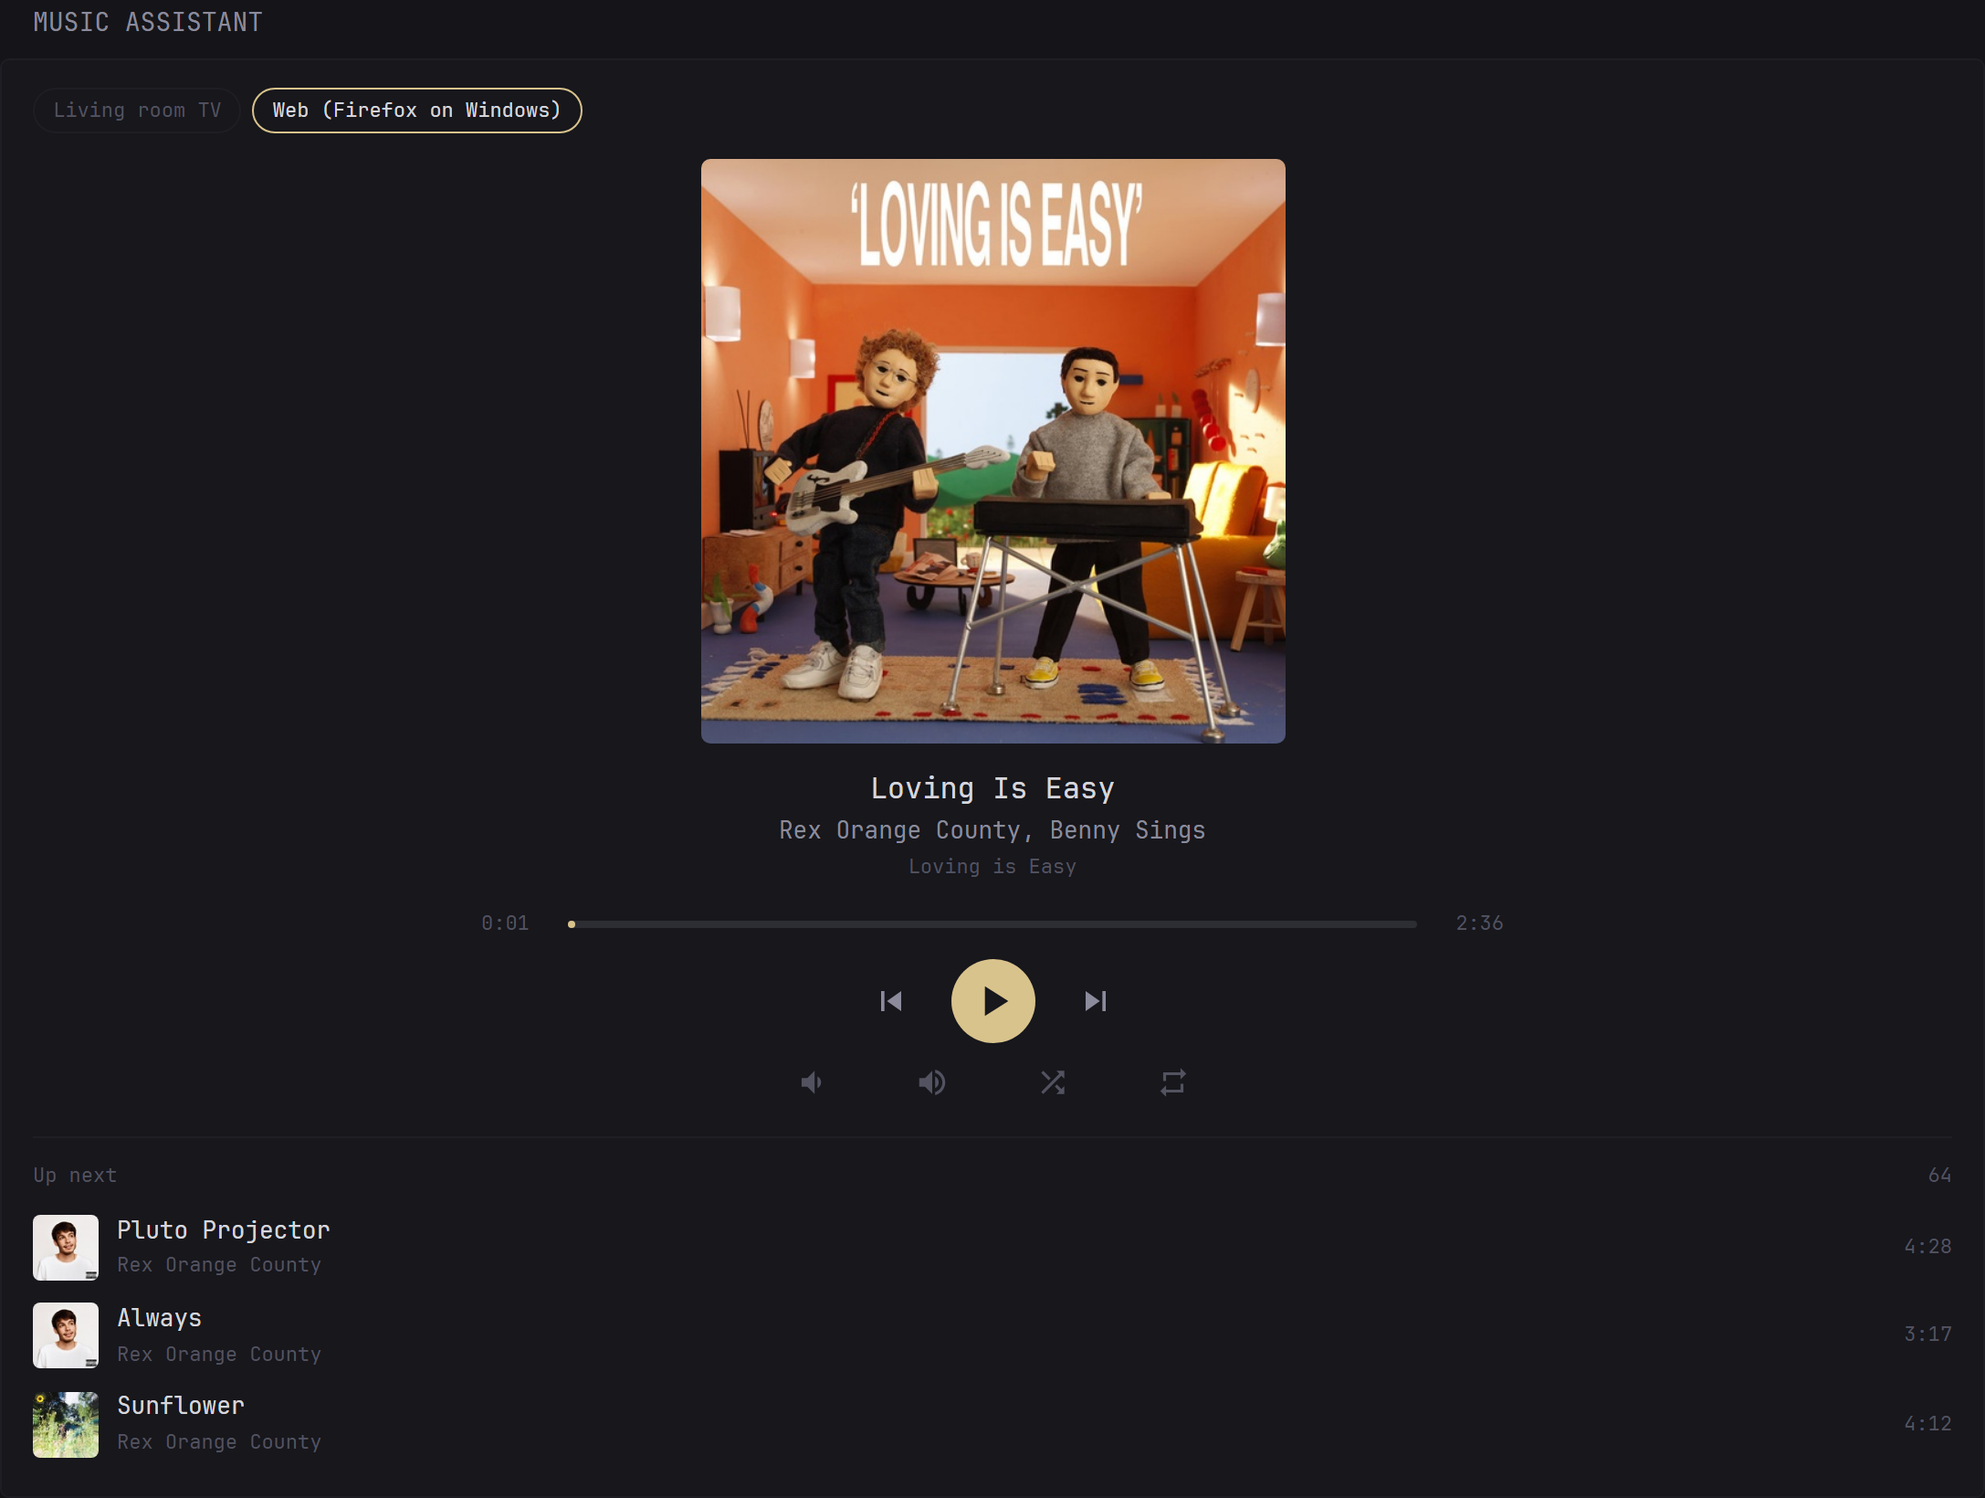
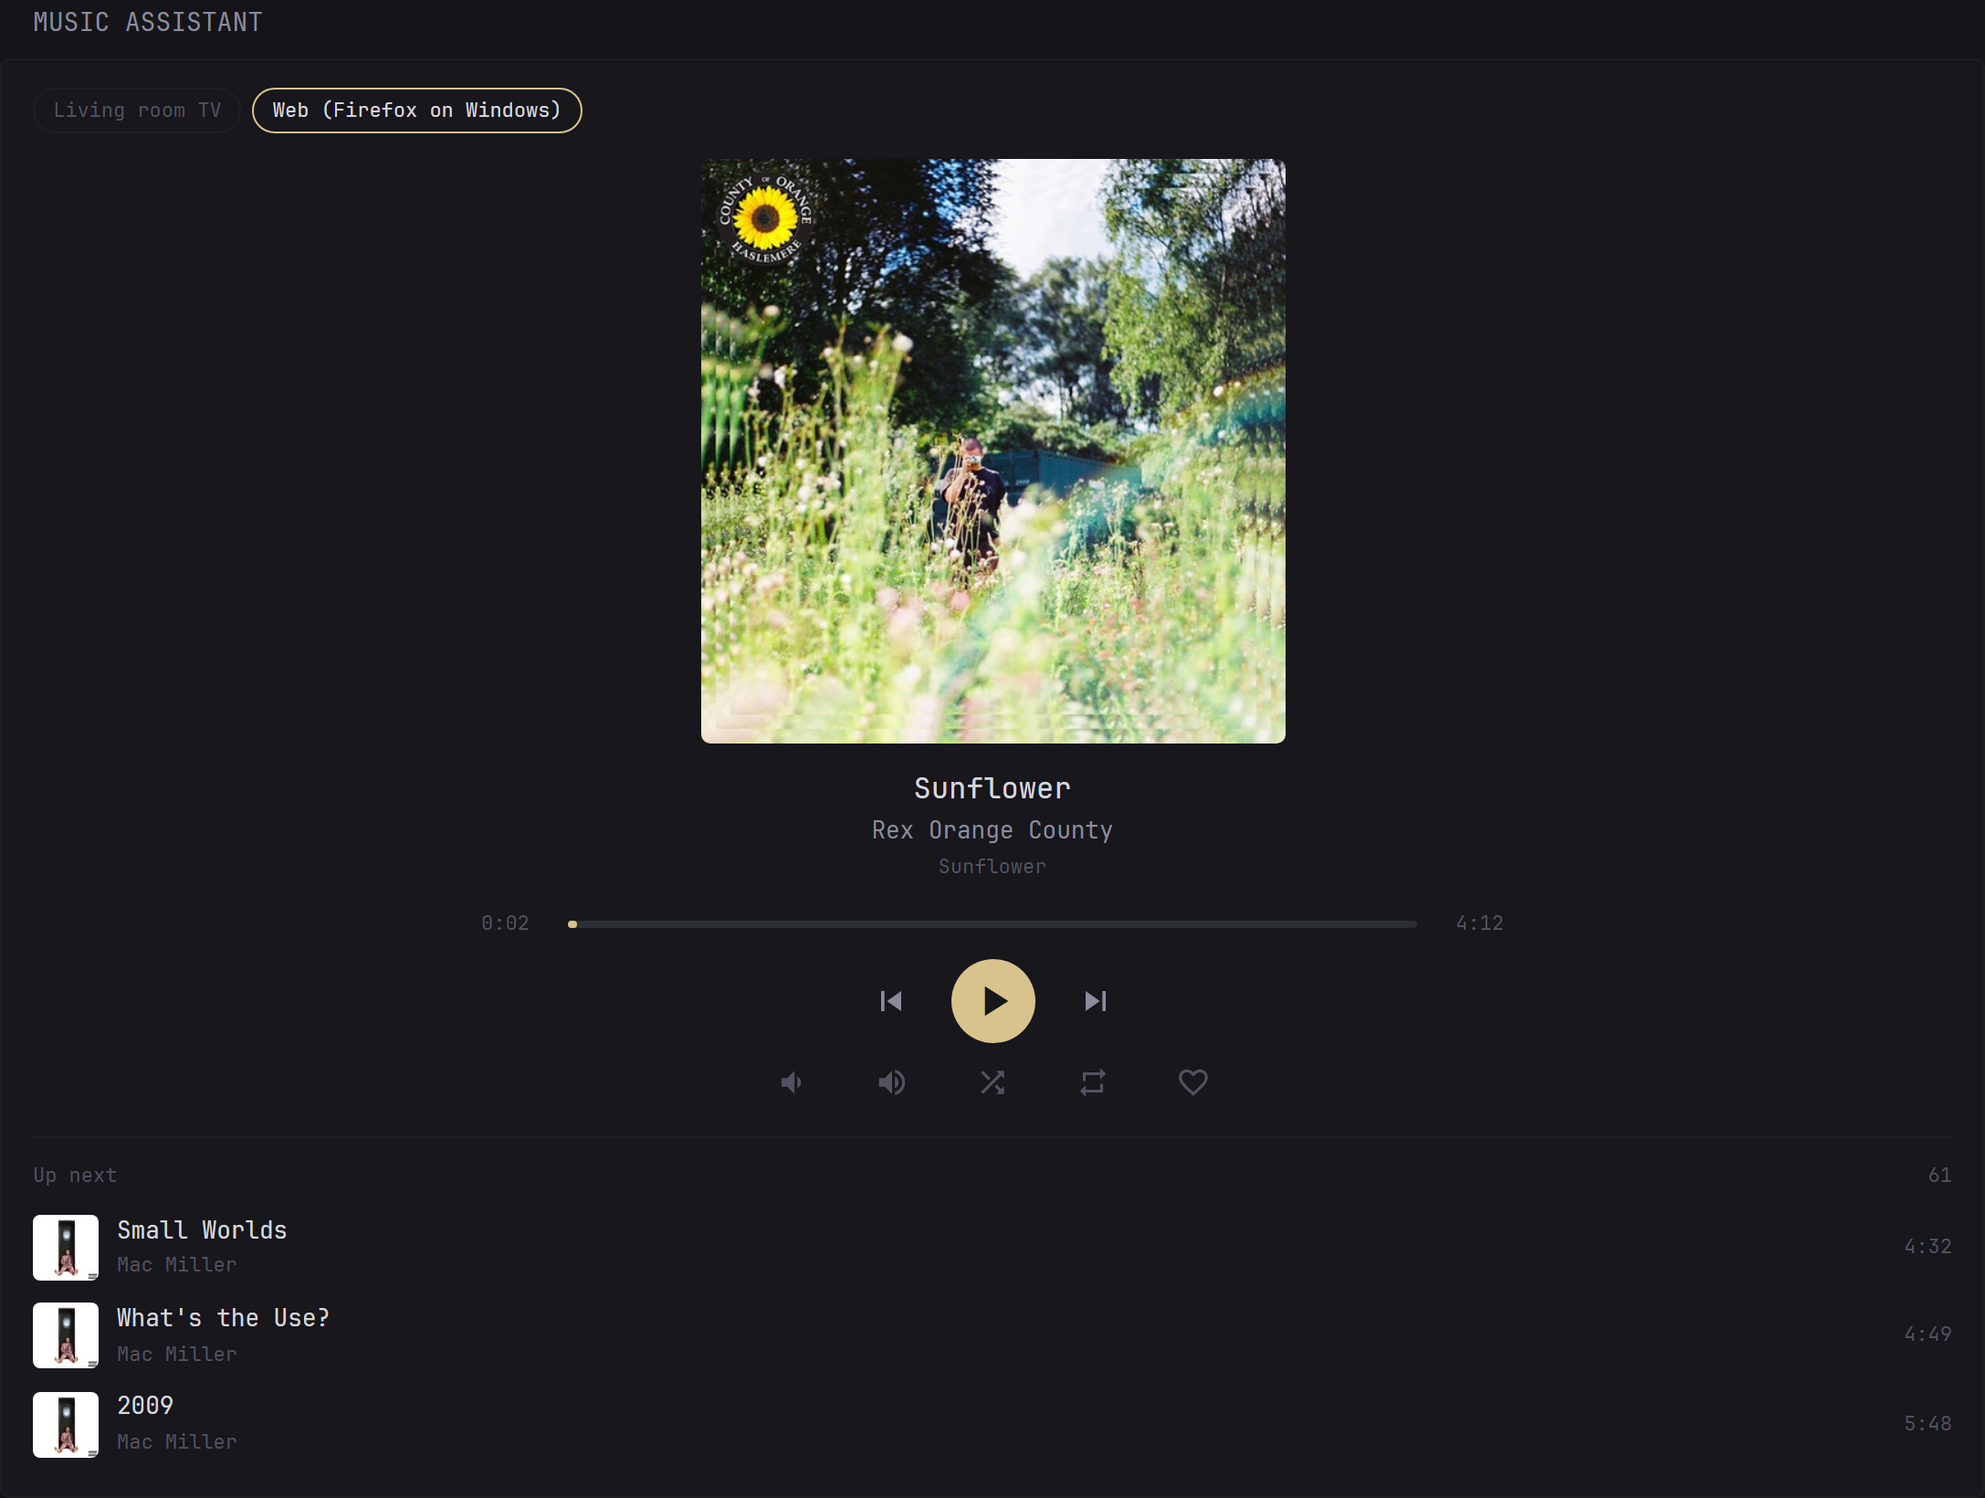
Favourite button for the current track
A heart next to repeat adds the current track (or radio station) to the
favourites or removes it. Queue items keep the favourite flag from when
they were queued, so the widget asks music/item_by_uri, which returns the
library item with the current flag, and uses music/favorites/add_item and
remove_item. New option show-favorite (default true); the read-only
variant makes no extra requests.

Commands now get queue_id or player_id only when they need one.
Previews retaken with the heart.

diff --git a/dev/mock_ma.py b/dev/mock_ma.py
@@ -155,6 +155,7 @@ BROKEN_COVERS = {_image("Low Tide Radio")["proxy_id"]}
 class MockMA:
     def __init__(self) -> None:
         self.state = initial_state()
+        self.favorites: set[str] = set()
         self.log: list[dict] = []
         self.sockets: set[web.WebSocketResponse] = set()
 
@@ -214,6 +215,20 @@ class MockMA:
         if command == "players/all":  # MA applies the player filter here, not to player_queues/all
             return [{"player_id": k, "name": d["queue"]["display_name"], "volume_level": d["volume"]}
                     for k, d in self.state.items() if k in PLAYER_FILTER]
+
+        if command == "music/item_by_uri":  # MA returns the library item, with its current favourite flag
+            uri = args["uri"]
+            for i, (title, _, _, _) in enumerate(CATALOGUE):
+                if uri == f"library://track/{i + 1}":
+                    return {"item_id": str(i + 1), "provider": "library", "media_type": "track", "uri": uri,
+                            "name": title, "favorite": uri in self.favorites}
+            raise ValueError(f"Unknown item {uri}")
+        if command == "music/favorites/add_item":
+            self.favorites.add(args["item"])
+            return None
+        if command == "music/favorites/remove_item":
+            self.favorites.discard(f"library://{args['media_type']}/{args['library_item_id']}")
+            return None
 
         target = args.get("queue_id", args.get("player_id"))
         if target in self.state and target not in PLAYER_FILTER:
@@ -376,6 +391,7 @@ async def handle_log(_: web.Request) -> web.Response:
 
 async def handle_reset(_: web.Request) -> web.Response:
     mock.state = initial_state()
+    mock.favorites.clear()
     mock.log.clear()
     return web.json_response({"ok": True})
 

diff --git a/dev/test_e2e.py b/dev/test_e2e.py
@@ -145,6 +145,17 @@ def run_browser_tests(screenshots: bool) -> None:
                 "aria-label", "Repeat: all", timeout=6000)
         check("repeat cycles off -> all", repeat)
 
+        def favourite() -> None:
+            heart = page.locator(f'{panel} [aria-label="Favourite"]')
+            expect(heart).to_have_attribute("aria-pressed", "false")
+            heart.click()
+            expect(heart).to_have_attribute("aria-pressed", "true", timeout=6000)
+            assert last_command("music/favorites/add_item")["args"] == {"item": "library://track/5"}  # Slow Orbit
+            heart.click()
+            expect(heart).to_have_attribute("aria-pressed", "false", timeout=6000)
+            assert last_command("music/favorites/remove_item")["args"] == {"media_type": "track", "library_item_id": "5"}
+        check("favourite button adds and removes the current track", favourite)
+
         def volume() -> None:
             page.locator(f'{panel} [data-ma-cmd="players/cmd/volume_up"]').click()
             page.wait_for_timeout(600)

diff --git a/widget/README.md b/widget/README.md
@@ -2,7 +2,7 @@
 
 ![Music Assistant widget with big-cover in a full column](preview-big-cover.png)
 
-Shows what your [Music Assistant](https://www.music-assistant.io) players are playing and lets you control them from Glance: play/pause, previous/next, seek, volume, shuffle, repeat and play any upcoming track. Players with something in their queue get a tab; the one that is playing opens first.
+Shows what your [Music Assistant](https://www.music-assistant.io) players are playing and lets you control them from Glance: play/pause, previous/next, seek, volume, shuffle, repeat, favourite and play any upcoming track. Players with something in their queue get a tab; the one that is playing opens first.
 
 Works with Music Assistant alone, no Home Assistant needed.
 
@@ -38,6 +38,7 @@ Works with Music Assistant alone, no Home Assistant needed.
 | `player-id` | `""` | Player to open when nothing is playing |
 | `public-url` | `${MA_URL}` | Music Assistant address as the browser sees it |
 | `show-controls` | `true` | `false` makes the widget read-only and leaves the token out of the page |
+| `show-favorite` | `true` | Heart button that adds the current track to the favourites or removes it; `false` hides it |
 | `queue-length` | `4` | Upcoming tracks to list; `0` hides the list |
 | `max-players` | `4` | Number of player tabs, 1 to 6 |
 | `big-cover` | `false` | Large cover on top, like the Music Assistant player screen; best in a full column |
@@ -58,7 +59,7 @@ Player ids are shown at the top of each player's settings page in Music Assistan
 
 ## How it works
 
-Glance reads `player_queues/all`, `players/all` (the players the user may use) and the upcoming tracks from the Music Assistant HTTP API on the server side. The buttons send commands over the Music Assistant WebSocket API, because the HTTP API does not allow requests from other sites in the browser (no CORS) while WebSockets are not limited that way. After a command, only this widget is re-rendered, without reloading the page.
+Glance reads `player_queues/all`, `players/all` (the players the user may use), the upcoming tracks and the favourite state of each current track from the Music Assistant HTTP API on the server side. The buttons send commands over the Music Assistant WebSocket API, because the HTTP API does not allow requests from other sites in the browser (no CORS) while WebSockets are not limited that way. After a command, only this widget is re-rendered, without reloading the page.
 
 Icons are from Google's Material Icons (Apache License 2.0).
 
@@ -83,6 +84,7 @@ Icons are from Google's Material Icons (Apache License 2.0).
     player-id: ""           # player to open when nothing is playing
     public-url: ${MA_URL}   # Music Assistant address as the browser sees it (controls and cover art)
     show-controls: true     # false makes the widget read-only and keeps the token out of the page
+    show-favorite: true     # heart button that adds or removes the current track from the favourites
     queue-length: 4         # upcoming tracks to list, 0 hides the list
     max-players: 4          # number of player tabs, 1 to 6
     big-cover: false        # large cover on top, like the Music Assistant player screen
@@ -92,6 +94,7 @@ Icons are from Google's Material Icons (Apache License 2.0).
     {{- $id := .Options.StringOr "id" "ma" -}}
     {{- $server := trimSuffix "/" (.Options.StringOr "public-url" "${MA_URL}") -}}
     {{- $controls := .Options.BoolOr "show-controls" true -}}
+    {{- $favorites := .Options.BoolOr "show-favorite" true -}}
     {{- $big := .Options.BoolOr "big-cover" false -}}
     {{- $queueLength := .Options.IntOr "queue-length" 4 -}}
     {{- $maxPlayers := .Options.IntOr "max-players" 4 -}}
@@ -272,7 +275,8 @@ Icons are from Google's Material Icons (Apache License 2.0).
             if (!root || !panel || root.hasAttribute('data-ma-busy')) return;
             var command = el.getAttribute('data-ma-cmd'), args = {};
             try { args = JSON.parse(el.getAttribute('data-ma-args') || '{}'); } catch (e) {}
-            args[command.indexOf('players/') === 0 ? 'player_id' : 'queue_id'] = panel.getAttribute('data-ma-queue');
+            if (command.indexOf('player_queues/') === 0) args.queue_id = panel.getAttribute('data-ma-queue');
+            else if (command.indexOf('players/') === 0) args.player_id = panel.getAttribute('data-ma-queue');
             if (el.hasAttribute('data-ma-seek')) {
               var box = el.getBoundingClientRect();
               if (!box.width) return;
@@ -397,6 +401,26 @@ Icons are from Google's Material Icons (Apache License 2.0).
         {{- $repeat := .String "repeat_mode" }}
         {{- $nextRepeat := "all" }}
         {{- if eq $repeat "all" }}{{ $nextRepeat = "one" }}{{ else if eq $repeat "one" }}{{ $nextRepeat = "off" }}{{ end }}
+        {{- /* Favourite state: queue items keep the flag they had when queued, the library has the current one */ -}}
+        {{- $favorite := "" }}
+        {{- $favoriteArgs := "" }}
+        {{- $uri := .String "current_item.media_item.uri" }}
+        {{- if and $controls $favorites $uri }}
+          {{- $item := newRequest "${MA_URL}/api"
+                | withHeader "Authorization" "Bearer ${MA_TOKEN}"
+                | withHeader "Content-Type" "application/json"
+                | withStringBody (printf `{"message_id":"glance","command":"music/item_by_uri","args":{"uri":%q}}` $uri)
+                | getResponse }}
+          {{- if eq $item.Response.StatusCode 200 }}
+            {{- if and ($item.JSON.Bool "favorite") (eq ($item.JSON.String "provider") "library") }}
+              {{- $favorite = "on" }}
+              {{- $favoriteArgs = printf `{"media_type": %q, "library_item_id": %q}` ($item.JSON.String "media_type") ($item.JSON.String "item_id") }}
+            {{- else }}
+              {{- $favorite = "off" }}
+              {{- $favoriteArgs = printf `{"item": %q}` ($item.JSON.String "uri") }}
+            {{- end }}
+          {{- end }}
+        {{- end }}
         <div class="panel-music-assistant{{ if eq $state "playing" }} playing-music-assistant{{ end }}" data-ma-queue="{{ $qid }}"{{ if and (eq $state "playing") (gt $duration 0) }} data-ma-remaining="{{ $remaining }}"{{ end }}>
           <div class="now-music-assistant">
             <div class="art-music-assistant">
@@ -435,6 +459,9 @@ Icons are from Google's Material Icons (Apache License 2.0).
             <button type="button" class="btn-music-assistant" data-ma-cmd="players/cmd/volume_up" aria-label="Volume up" title="Volume up" onclick="window.maPlayer && window.maPlayer.cmd(this, event)">{{ template "ma-icon-volume-up" }}</button>
             <button type="button" class="btn-music-assistant{{ if $shuffle }} on-music-assistant{{ end }}" data-ma-cmd="player_queues/shuffle" data-ma-args='{"shuffle_enabled": {{ not $shuffle }}}' aria-label="Shuffle" aria-pressed="{{ $shuffle }}" title="Shuffle {{ if $shuffle }}on{{ else }}off{{ end }}" onclick="window.maPlayer && window.maPlayer.cmd(this, event)">{{ template "ma-icon-shuffle" }}</button>
             <button type="button" class="btn-music-assistant{{ if ne $repeat "off" }} on-music-assistant{{ end }}" data-ma-cmd="player_queues/repeat" data-ma-args='{"repeat_mode": "{{ $nextRepeat }}"}' aria-label="Repeat: {{ $repeat }}" title="Repeat: {{ $repeat }}" onclick="window.maPlayer && window.maPlayer.cmd(this, event)">{{ if eq $repeat "one" }}{{ template "ma-icon-repeat-one" }}{{ else }}{{ template "ma-icon-repeat" }}{{ end }}</button>
+            {{- if $favorite }}
+            <button type="button" class="btn-music-assistant{{ if eq $favorite "on" }} on-music-assistant{{ end }}" data-ma-cmd="music/favorites/{{ if eq $favorite "on" }}remove_item{{ else }}add_item{{ end }}" data-ma-args="{{ $favoriteArgs }}" aria-label="Favourite" aria-pressed="{{ eq $favorite "on" }}" title="{{ if eq $favorite "on" }}Remove from favourites{{ else }}Add to favourites{{ end }}" onclick="window.maPlayer && window.maPlayer.cmd(this, event)">{{ if eq $favorite "on" }}{{ template "ma-icon-favorite" }}{{ else }}{{ template "ma-icon-favorite-border" }}{{ end }}</button>
+            {{- end }}
           </div>
           {{- end }}
 
@@ -488,6 +515,8 @@ Icons are from Google's Material Icons (Apache License 2.0).
     {{- define "ma-icon-shuffle" }}<svg viewBox="0 0 24 24" aria-hidden="true"><path d="M10.59 9.17L5.41 4 4 5.41l5.17 5.17 1.42-1.41zM14.5 4l2.04 2.04L4 18.59 5.41 20 17.96 7.46 20 9.5V4h-5.5zm.33 9.41l-1.41 1.41 3.13 3.13L14.5 20H20v-5.5l-2.04 2.04-3.13-3.13z"/></svg>{{ end }}
     {{- define "ma-icon-repeat" }}<svg viewBox="0 0 24 24" aria-hidden="true"><path d="M7 7h10v3l4-4-4-4v3H5v6h2V7zm10 10H7v-3l-4 4 4 4v-3h12v-6h-2v4z"/></svg>{{ end }}
     {{- define "ma-icon-repeat-one" }}<svg viewBox="0 0 24 24" aria-hidden="true"><path d="M7 7h10v3l4-4-4-4v3H5v6h2V7zm10 10H7v-3l-4 4 4 4v-3h12v-6h-2v4zm-4-2V9h-1l-2 1v1h1.5v4H13z"/></svg>{{ end }}
+    {{- define "ma-icon-favorite" }}<svg viewBox="0 0 24 24" aria-hidden="true"><path d="M12 21.35l-1.45-1.32C5.4 15.36 2 12.28 2 8.5 2 5.42 4.42 3 7.5 3c1.74 0 3.41.81 4.5 2.09C13.09 3.81 14.76 3 16.5 3 19.58 3 22 5.42 22 8.5c0 3.78-3.4 6.86-8.55 11.54L12 21.35z"/></svg>{{ end }}
+    {{- define "ma-icon-favorite-border" }}<svg viewBox="0 0 24 24" aria-hidden="true"><path d="M16.5 3c-1.74 0-3.41.81-4.5 2.09C10.91 3.81 9.24 3 7.5 3 4.42 3 2 5.42 2 8.5c0 3.78 3.4 6.86 8.55 11.54L12 21.35l1.45-1.32C18.6 15.36 22 12.28 22 8.5 22 5.42 19.58 3 16.5 3zm-4.4 15.55l-.1.1-.1-.1C7.14 14.24 4 11.39 4 8.5 4 6.5 5.5 5 7.5 5c1.54 0 3.04.99 3.57 2.36h1.87C13.46 5.99 14.96 5 16.5 5c2 0 3.5 1.5 3.5 3.5 0 2.89-3.14 5.74-7.9 10.05z"/></svg>{{ end }}
     {{- define "ma-icon-volume-down" }}<svg viewBox="0 0 24 24" aria-hidden="true"><path d="M18.5 12c0-1.77-1.02-3.29-2.5-4.03v8.05c1.48-.73 2.5-2.25 2.5-4.02zM5 9v6h4l5 5V4L9 9H5z"/></svg>{{ end }}
     {{- define "ma-icon-volume-up" }}<svg viewBox="0 0 24 24" aria-hidden="true"><path d="M3 9v6h4l5 5V4L7 9H3zm13.5 3c0-1.77-1.02-3.29-2.5-4.03v8.05c1.48-.73 2.5-2.25 2.5-4.02zM14 3.23v2.06c2.89.86 5 3.54 5 6.71s-2.11 5.85-5 6.71v2.06c4.01-.91 7-4.49 7-8.77s-2.99-7.86-7-8.77z"/></svg>{{ end }}
 ```

diff --git a/docs/api-notes.md b/docs/api-notes.md
@@ -48,9 +48,19 @@ releases a new version.
 | `player_queues/play_index` | `queue_id`, `index` (int, or a `queue_item_id` string) | `queues.control` |
 | `players/cmd/volume_up`, `players/cmd/volume_down` | `player_id` | `players.control` |
 | `players/cmd/volume_set` | `player_id`, `volume_level` | `players.control` |
-| `players/add_currently_playing_to_favorites` | `player_id` | `library.write` (not for guests) |
+| `music/item_by_uri` | `uri` | `library.read` |
+| `music/favorites/add_item` | `item` (a URI) | `library.write` (not for guests) |
+| `music/favorites/remove_item` | `media_type`, `library_item_id` | `library.write` (not for guests) |
 
 `queue_id` equals the `player_id` unless the player is grouped.
+
+Favourites: a queue item keeps the `favorite` flag its media item had when it was queued, and
+`music/favorites/*` do not update it. `music/item_by_uri` with `current_item.media_item.uri` returns
+the library item when there is one (`MediaControllerBase.get` prefers it), with the current flag;
+about 30 to 50 ms on a real server. A favourite is always a library item (`provider` is `library`),
+so its `item_id` is the `library_item_id` for removing it; `add_item` adds a provider item to the
+library first. `players/add_currently_playing_to_favorites` exists too, but for radio it searches
+the track from the stream title, which the widget could not show as a state.
 
 ### Users, roles and scopes
 
@@ -75,7 +85,7 @@ releases a new version.
   announced it, which never applies to the widget.
 - Custom roles with chosen scopes (`auth/role/create`) exist on `main` (2.11), not in 2.10.5. The
   guest token block checks the role id `guest` only, so a custom role with the guest scopes (plus
-  `library.write` for a favourite button) would give the widget a smaller token than `user`.
+  `library.write` for the favourite button) would give the widget a smaller token than `user`.
 
 ### Images
 

diff --git a/README.md b/README.md
@@ -7,7 +7,7 @@ works without Home Assistant.
 ![Music Assistant widget](widget/preview.png)
 
 - Now playing with cover art, artist and album, one tab per player with a queue
-- Play/pause, previous/next, seek by clicking the progress bar, volume, shuffle and repeat
+- Play/pause, previous/next, seek by clicking the progress bar, volume, shuffle, repeat and favourite
 - Up next list; click a track to play it
 - Updates itself when a track ends, and only the widget re-renders after a command
 - Read-only mode that keeps the token out of the page
@@ -39,7 +39,7 @@ dev/      mock Music Assistant, local Glance config, browser tests
 - [x] Read-only view from the Music Assistant HTTP API
 - [x] Controls over the Music Assistant WebSocket API, widget-only refresh
 - [ ] Live updates from Music Assistant events: running time, drag to seek, volume slider, instant button state
-- [ ] Optional favourite button (`library.write`, part of the User role)
+- [x] Favourite button for the current track
 - [ ] Submit to [glanceapp/community-widgets](https://github.com/glanceapp/community-widgets)
 
 ## Development
